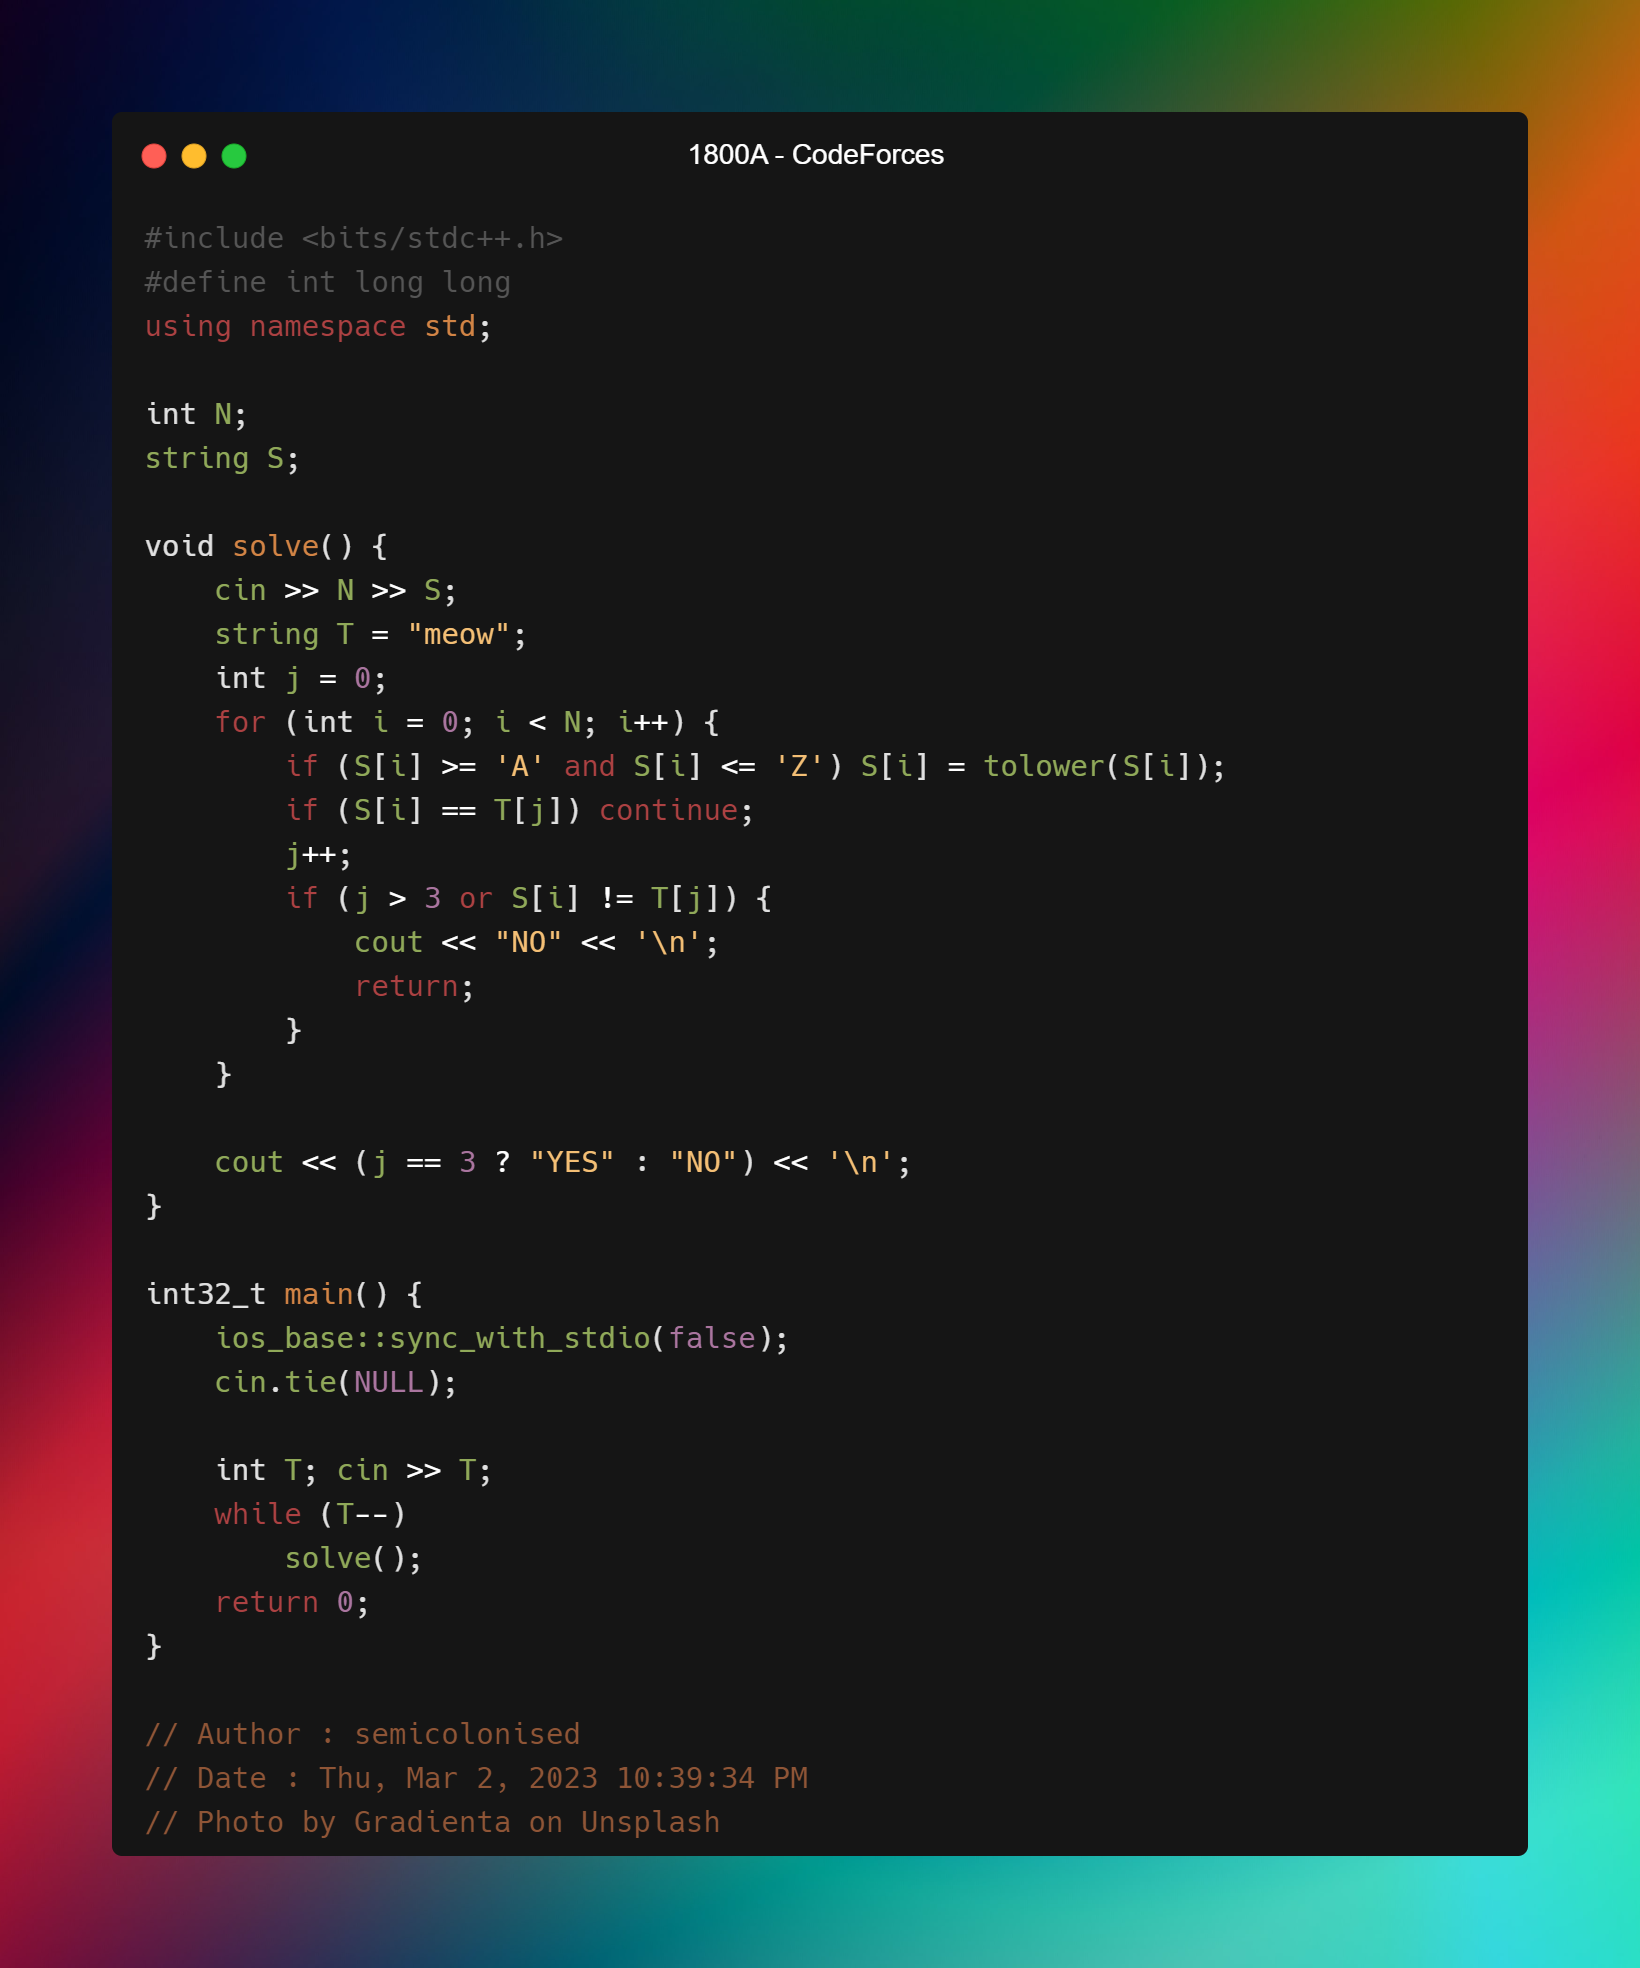
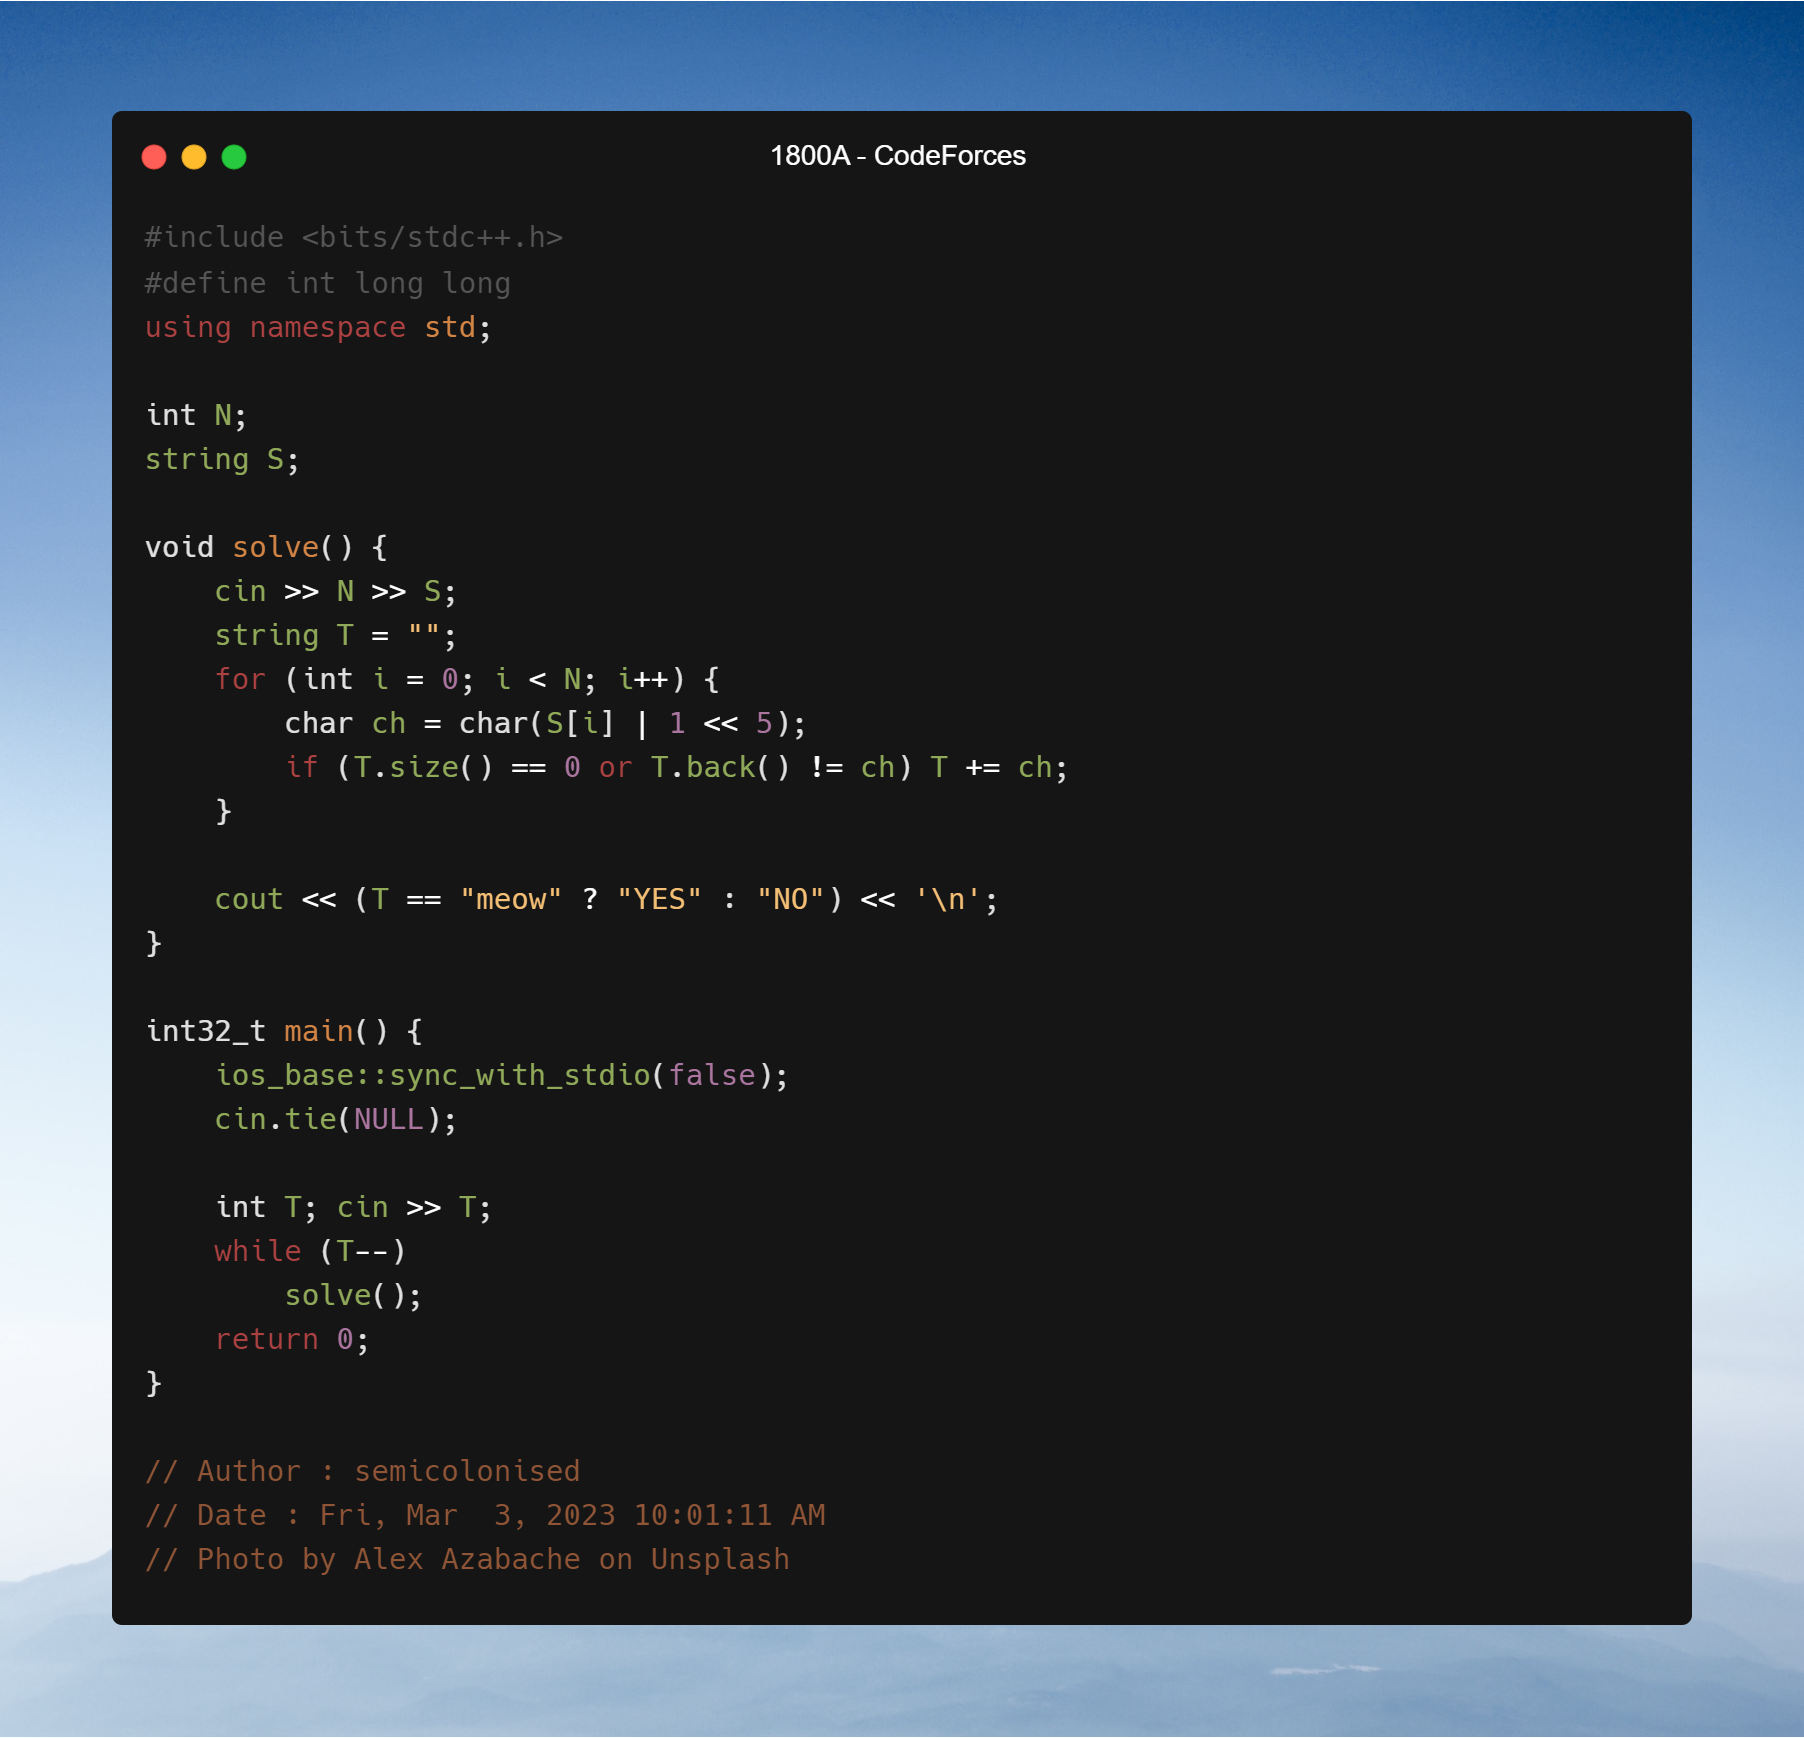
Made changes to 1800A

diff --git a/Codeforces/Div-3/1800/A/A.cpp b/Codeforces/Div-3/1800/A/A.cpp
@@ -7,19 +7,13 @@ string S;
 
 void solve() {
 	cin >> N >> S;
-	string T = "meow";
-	int j = 0;
+	string T = "";
 	for (int i = 0; i < N; i++) {
-		if (S[i] >= 'A' and S[i] <= 'Z') S[i] = tolower(S[i]);
-		if (S[i] == T[j]) continue;
-		j++;
-		if (j > 3 or S[i] != T[j]) {
-			cout << "NO" << '\n';
-			return;
-		}
+		char ch = char(S[i] | 1 << 5);
+		if (T.size() == 0 or T.back() != ch) T += ch;
 	}
 
-	cout << (j == 3 ? "YES" : "NO") << '\n';
+	cout << (T == "meow" ? "YES" : "NO") << '\n';
 }
 
 int32_t main() {
